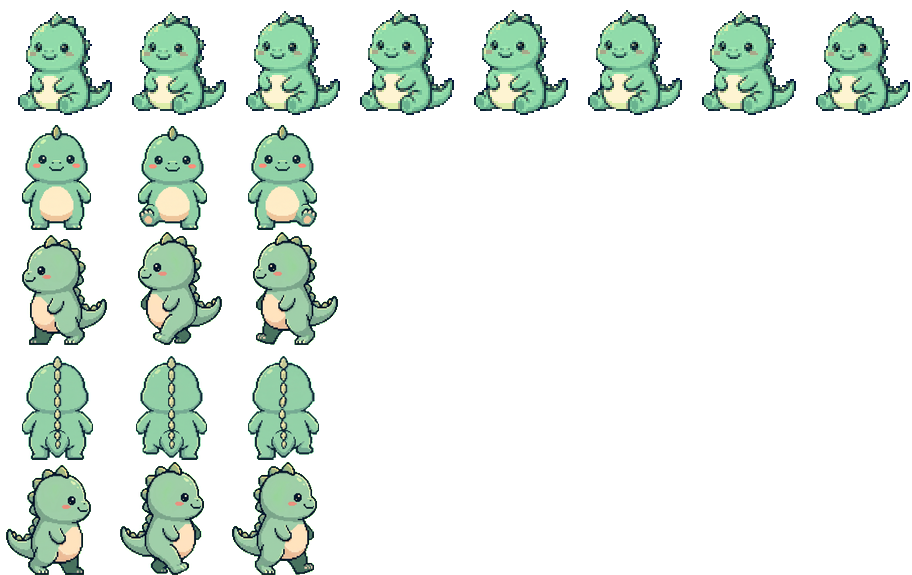
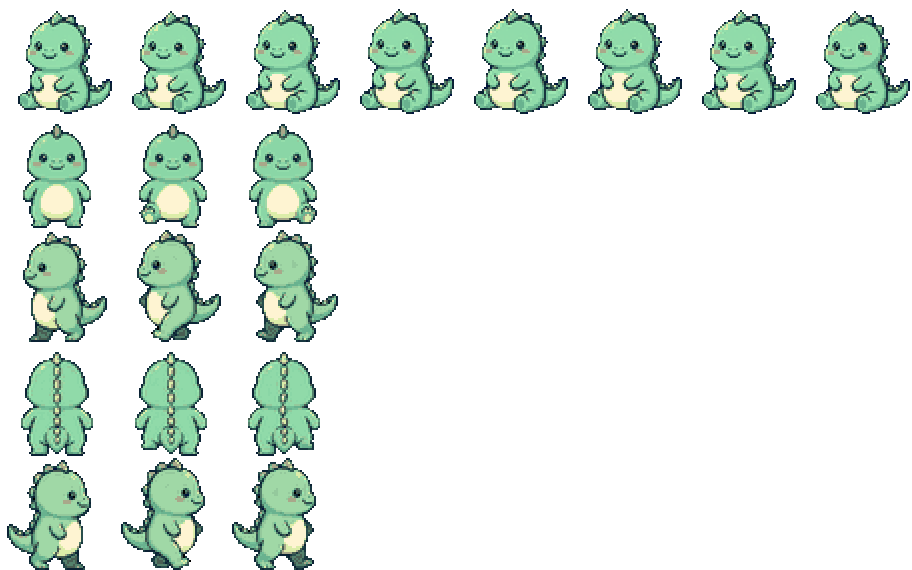
fix: match dino walk frames to the existing low-res pixel look
대표 지적 2건 — "앉은 것과 걷는 것 크기 차이가 크다", "걷기 시작하면 어두워진다".

원인은 크기가 아니라 **결과 색**이었다.
- 기존 공룡은 일부러 저퀄 픽셀화(아트픽셀 2 · 알파 이진 · 팔레트 축소)를 거친 물건인데
  내가 만든 걷기는 그 처리 전이라 같은 캐릭터인데 딴 그림처럼 보였다
  → extract_season_item.py --pixel 과 같은 처리를 태운다
- 원본 시트끼리 밝기가 다르다(정면 157 / 뒷면 148 / 측면 143)
  → 팔레트를 새로 뽑지 않고 **앉은 공룡의 22색을 그대로 강제**한다.
    프레임 간 색 깜빡임도 같이 사라진다. 결과 평균밝기 148/159/145/148 로 수렴

★팔레트 스냅에서 int16 오버플로로 배가 까매지고 테두리가 밝아졌다 — int32 로 올려서 뺀다.

diff --git a/char/build_dino_walk.py b/char/build_dino_walk.py
@@ -40,6 +40,17 @@
 
 6. 축소는 **프리멀티플라이드 LANCZOS**. 그냥 줄이면 투명 픽셀 밑 RGB 가 섞여 테두리에
    검은 띠가 생긴다(extract_season_item.py 와 같은 이유).
+
+7. ★**기존 공룡은 일부러 저퀄 픽셀화를 거친 물건이다**(대표 지적). 그냥 매끈하게 줄이면
+   같은 캐릭터인데 결이 달라서 앉은 것과 걷는 것이 딴 그림처럼 보인다. 그래서
+   `extract_season_item.py --pixel 2` 와 **똑같은 처리**를 태운다:
+   아트격자(1아트픽셀=2유닛)로 줄였다가 NEAREST 로 되키우고 알파를 이진화한다.
+   실측: 앉은 공룡 = 고유색 22개, 알파 0/255 뿐, 색마다 픽셀 수가 4의 배수(=2x2 격자).
+
+8. ★팔레트는 **새로 뽑지 않고 앉은 공룡 것을 그대로 쓴다.** 프레임마다 quantize 하면
+   팔레트가 조금씩 달라져 걸을 때 색이 깜빡인다. 게다가 원본 시트끼리도 밝기가 다르다
+   (실측 평균밝기: 정면 157 / 뒷면 148 / 측면 143). 같은 팔레트로 스냅하면
+   "앉았다 걸으면 어두워진다"가 원천적으로 사라진다.
 """
 from __future__ import annotations
 
@@ -128,8 +139,11 @@ def foot_center(im):
 
 def scale_to(im, factor):
     """프리멀티플라이드 LANCZOS 축소 (검은 테두리 방지)."""
-    w = max(1, int(round(im.width * factor)))
-    h = max(1, int(round(im.height * factor)))
+    return resize_to(im, max(1, int(round(im.width * factor))),
+                     max(1, int(round(im.height * factor))))
+
+
+def resize_to(im, w, h):
     a = np.asarray(im.convert('RGBA')).astype(np.float32)
     al = a[..., 3:4] / 255.0
     pm = np.concatenate([a[..., :3] * al, a[..., 3:4]], -1).astype(np.uint8)
@@ -137,6 +151,32 @@ def scale_to(im, factor):
     al2 = np.clip(sm[..., 3:4] / 255.0, 1e-4, 1.0)
     rgb = np.clip(sm[..., :3] / al2, 0, 255)
     return Image.fromarray(np.concatenate([rgb, sm[..., 3:4]], -1).astype(np.uint8))
+
+
+def ref_palette():
+    """앉은 공룡(앱에 이미 있는 것)의 팔레트. 걷기를 여기에 스냅해 색을 통일한다."""
+    a = np.asarray(Image.open(SITTING).convert('RGBA'))
+    pal = np.unique(a[..., :3][a[..., 3] >= 128].reshape(-1, 3), axis=0)
+    return pal.astype(np.int16)
+
+
+def pixelate(im, cell, pal):
+    """저퀄 픽셀화 — extract_season_item.py --pixel 과 같은 처리 + 팔레트 고정.
+
+    아트격자로 줄였다가 NEAREST 로 되키운다(1아트픽셀 = cell 유닛).
+    알파는 이진화하고(픽셀아트엔 반투명 가장자리가 없다), 색은 기준 팔레트로 스냅한다.
+    """
+    aw = max(1, int(round(im.width / cell)))
+    ah = max(1, int(round(im.height / cell)))
+    small = np.asarray(resize_to(im, aw, ah)).astype(np.int32)
+    alpha = np.where(small[..., 3] >= 128, 255, 0).astype(np.uint8)
+    # 각 픽셀을 가장 가까운 기준색으로. 프레임마다 팔레트를 새로 뽑으면 색이 깜빡인다.
+    # ★int32 로 올려서 뺀다 — int16 이면 차이의 제곱(최대 65025)이 넘쳐 음수가 되고
+    #   argmin 이 엉뚱한 색을 고른다(배가 까매지고 테두리가 밝아졌다).
+    d = ((small[..., None, :3] - pal[None, None, :, :].astype(np.int32)) ** 2).sum(-1)
+    snapped = pal[d.argmin(-1)].astype(np.uint8)
+    out = Image.fromarray(np.dstack([snapped, alpha]))
+    return out.resize((aw * cell, ah * cell), Image.NEAREST)
 
 
 def idle_frames():
@@ -150,7 +190,7 @@ def idle_frames():
     return out
 
 
-def build(side_mode):
+def build(side_mode, pixel=2):
     ref_head = head_width(Image.open(SITTING))          # 기준 머리 폭 = 앱에 이미 있는 공룡
     print('기준(앉은 공룡) 머리 폭 %dpx' % ref_head)
 
@@ -176,6 +216,14 @@ def build(side_mode):
           % (side_mode, fix, ref_h, side_h))
     if abs(fix - 1.0) > 1e-6:
         norm['side'] = [scale_to(f, fix) for f in norm['side']]
+
+    # 2.5) 저퀄 픽셀화 + 팔레트 고정 (주석 7·8번)
+    # 대기(둥가둥가)는 이미 이 처리를 거친 물건이라 손대지 않는다.
+    if pixel:
+        pal = ref_palette()
+        print('팔레트 %d색을 앉은 공룡에서 가져와 걷기에 강제한다 (아트픽셀 %d)' % (len(pal), pixel))
+        for k in norm:
+            norm[k] = [pixelate(f, pixel, pal) for f in norm[k]]
 
     # 3) 행 구성 — 앞·좌·뒤·우. 좌향은 측면을 좌우반전(대표 지시)
     rows = [
@@ -212,12 +260,14 @@ def main():
     ap = argparse.ArgumentParser()
     ap.add_argument('--side-mode', default='height', choices=['height', 'mid', 'head'],
                     help='측면 보정 방식 (기본 height = 정면과 키 맞춤)')
+    ap.add_argument('--pixel', type=int, default=2,
+                    help='아트픽셀 크기(기존 공룡과 같은 저퀄 픽셀화). 0=끔')
     ap.add_argument('--variants', action='store_true', help='미리보기용 3종을 함께 출력')
     a = ap.parse_args()
 
     modes = ['height', 'mid', 'head'] if a.variants else [a.side_mode]
     for m in modes:
-        sheet, cw, ch, cols, names, counts = build(m)
+        sheet, cw, ch, cols, names, counts = build(m, a.pixel)
         suffix = '' if (m == a.side_mode and not a.variants) else '_' + m
         if a.variants:
             suffix = '_' + m
